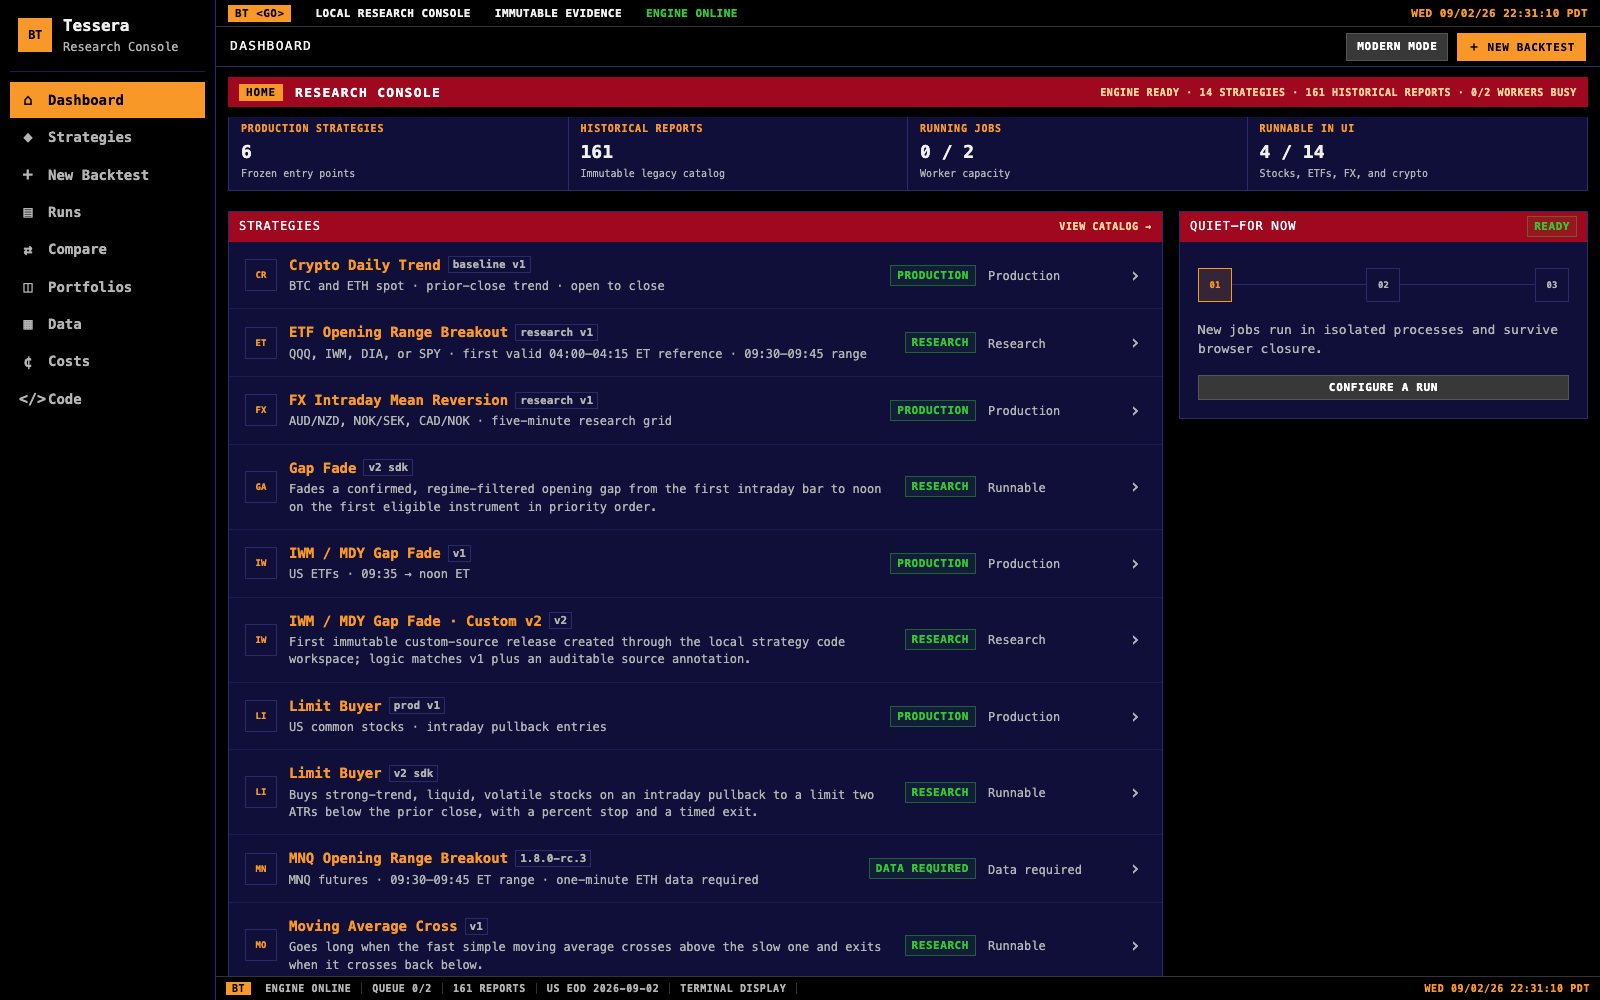
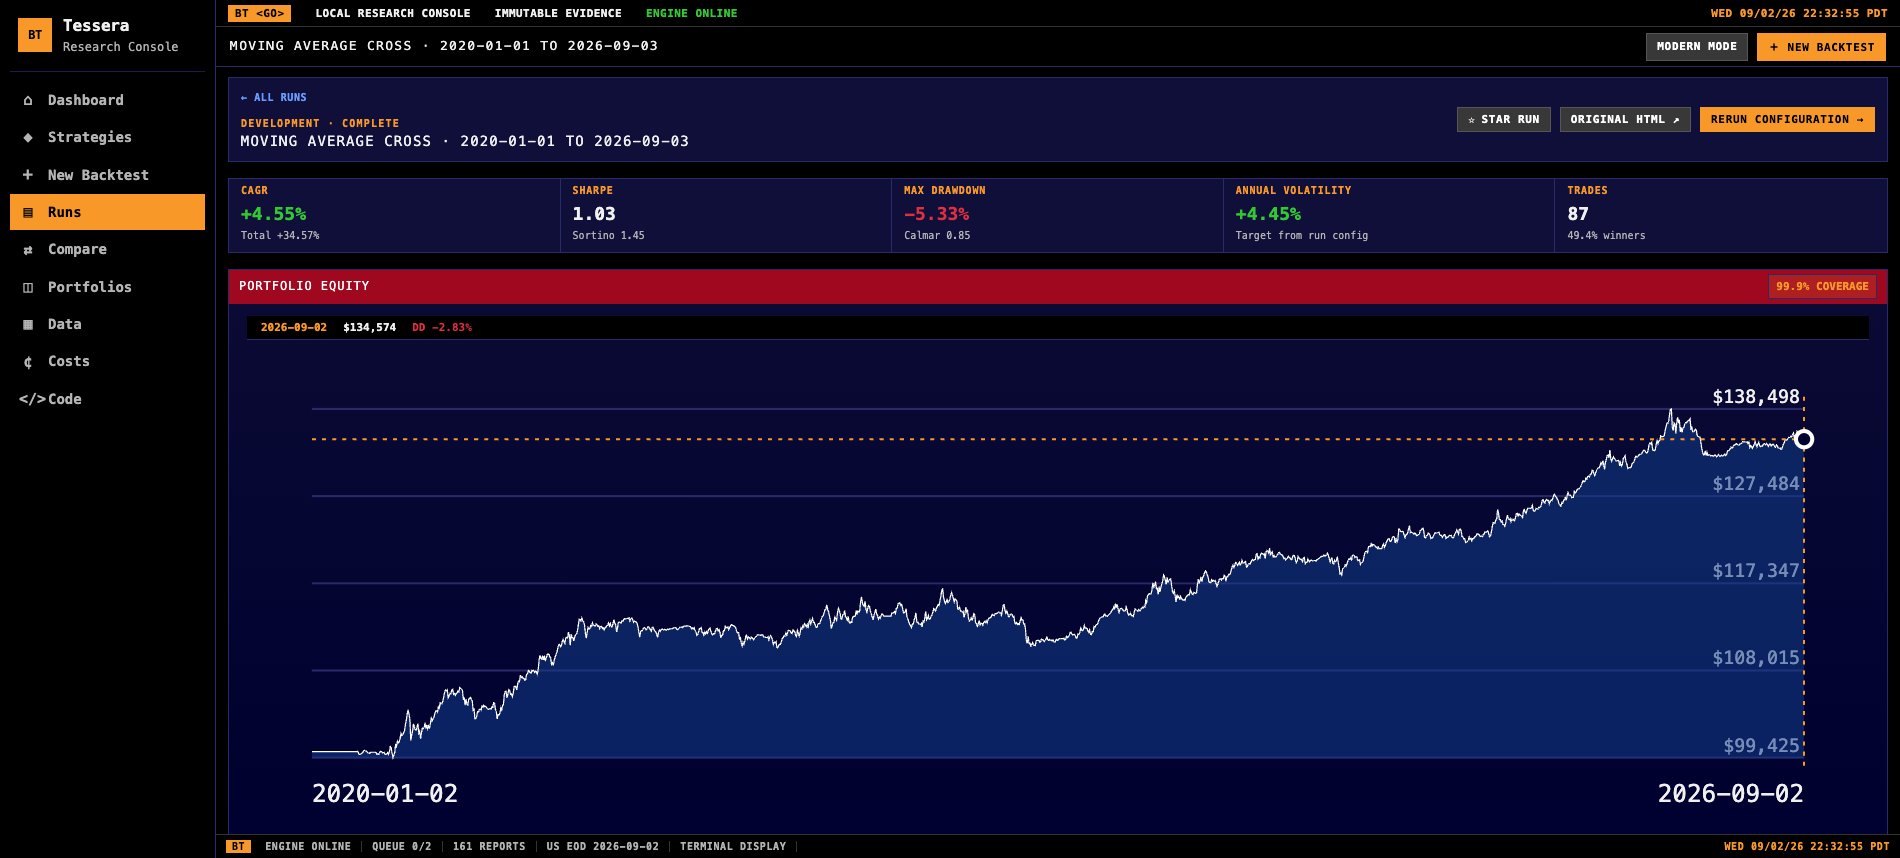
Use the example-strategy run view as the README screenshot

diff --git a/README.md b/README.md
@@ -2,7 +2,7 @@
 
 *Tessera* (Latin: one tile of a mosaic). Bars, fills, and runs are the tiles; the portfolio is the picture.
 
-![Tessera dashboard in terminal display mode](docs/images/tessera-dashboard.png)
+![Tessera run view: the bundled moving-average-cross example, terminal display mode](docs/images/tessera-dashboard.png)
 
 An event-driven backtesting engine written in Rust, with a local browser UI styled after a
 trading terminal. Strategies are single Rust files: declare the parameters, write the bar
